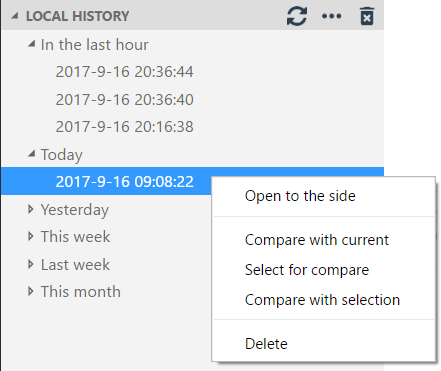
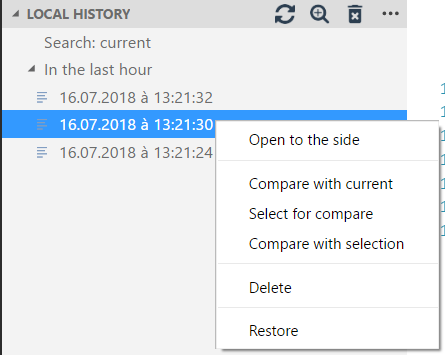
1.7.0

diff --git a/README.md b/README.md
@@ -11,21 +11,27 @@ Each file revision is stored in a separate file inside the .history folder of yo
 e.g., `.history/foo/bar/myFile_20151212205930.ts`
 
 You can easily navigate between history files with the `local-history tree` in the explorer pane.<BR>
+
 When you click on a file, a comparaison with the current version is displayed.<BR>
 You can also access other commands via a context menu.<BR>
 
 ![Image of tree](images/Tree.png)
 
-There is also an html-document (command: `View: Local history`)
+You have different views to filter:
+- all
+- current file (default)
+- specific file (you can enter a search pattern)
 
-![Image of html](images/HtmlPreview.png)
+![Image of tree](images/Tree2.png)
+
+The files displayed depend on setting `local-history.maxDisplay` to see more, use search-plus icon.
 
 ## Settings
 
         "local-history.daysLimit":  30  // A day number to purge local history. (0: no purge)
         "local-history.maxDisplay": 10  // A max files to display with local history commands
         "local-history.saveDelay":   0  // A delay in seconds to save file in local history. {0: no delay}
-        "local-history.dateLocale":     // The locale to use when displaying date
+        "local-history.dateLocale":     // The locale to use when displaying date (e.g.: "fr-CH" or "en-GB" or ...)
 
         "local-history.path":     // Specify another location for .history folder (null: use workspaceFolder)
             This settings must be an abolute path. You can also start your path with:
@@ -45,6 +51,10 @@ There is also an html-document (command: `View: Local history`)
         "local-history.exclude": // Files or folders to not save
             // (default) ['**/.history/**', '**/.vscode**', '**/node_modules/**', '**/typings/**', '**/out/**']
 
+        "local-history.treeLocation": // Specify a location for tree view
+            explorer (default): // Show tree in Explorer item
+            localHistory:       // Show tree in a special active bar item
+
 ## Commands
 
     local-history.showAll // Show all history available to select (limited with maxDisplay settings)
@@ -52,8 +62,6 @@ There is also an html-document (command: `View: Local history`)
     local-history.compareToCurrent // compare current version with another version in history
     local-history.compareToActive // compare active file with another version in history
     local-history.compareToPrevious // compare a version in history with its previous version
-
-    local-history.showViewer // Show the history in a html document
 
 ## Note
 When .history folder is stored in workspace, you can add a "files.exclude".

diff --git a/CHANGELOG.md b/CHANGELOG.md
@@ -1,3 +1,13 @@
+##1.7.0
+### New features
+* 3 different history views (current, all, specific)
+* SubMenu item for restoring files [#23](https://github.com/zabel-xyz/local-history/issues/23)
+* Local history as activity bar item, use settings `local-history.treeLocation` [#41](https://github.com/zabel-xyz/local-history/issues/41)
+* Remove html document
+### Bugs fixed
+* Fix cannot read property 'document' of undefined [#31](https://github.com/zabel-xyz/local-history/issues/31)
+* Fix Cannot read property 'fsPath' of undefined [#35](https://github.com/zabel-xyz/local-history/issues/35)
+
 ##1.6.2
 ### New features
 * Add variable ${workspaceFolder} for setting "local-history.path"
